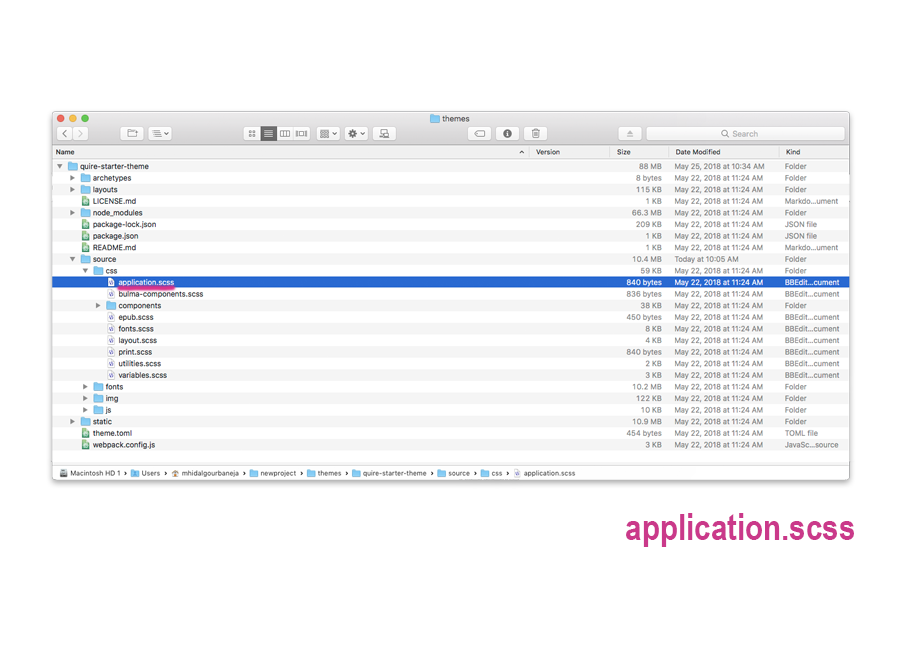
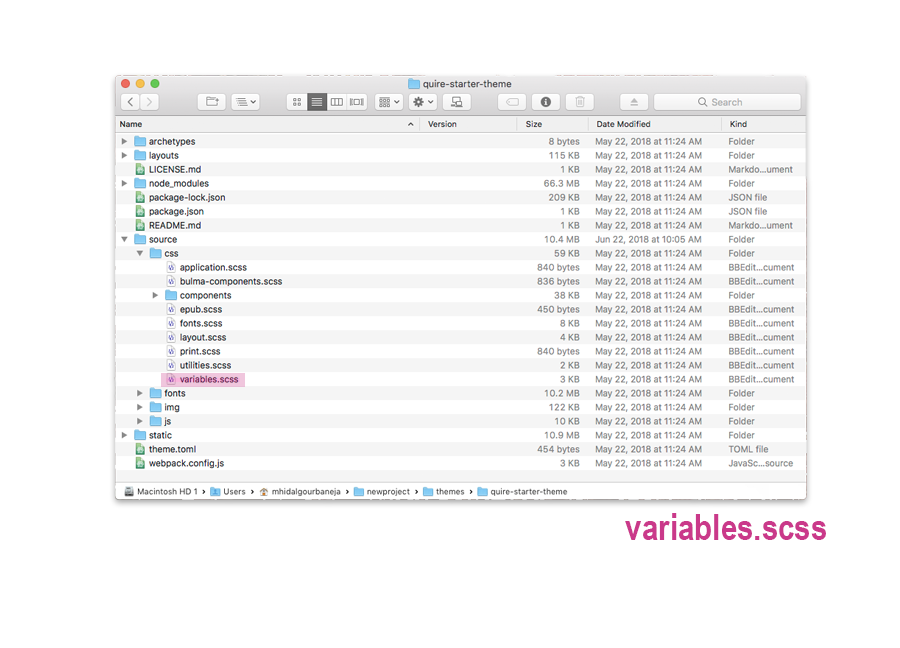
Changed application.scss to variables.scss

Changed region(s): [[0.0311, 0.1235, 0.9644, 0.8333]]

diff --git a/content/guide/styles.md b/content/guide/styles.md
@@ -9,9 +9,9 @@ The look and feel of your Quire publication can be customized at four different 
 
 Every Quire project has a theme[&] inside the `themes` directory. When you first start a new project typing the `quire new` command in your command line interface, the default theme included is `quire-starter-theme`. In it, you can access simple text variables[&] that will let you update text and background colors, some element sizes, fonts, paragraph indents and more.
 
-To find the variables, open the `quire-starter-theme` directory, navigate to the `source` sub-directory and then `css`, and open the file called `application.scss`.
+To find the variables, open the `quire-starter-theme` directory, navigate to the `source` sub-directory and then `css`, and open the file called `variables.scss`.
 
-![screenshot of the application.scss file in the quire-starter-theme directory](../images/screenshots/style1.png)
+![screenshot of the variables.scss file in the quire-starter-theme directory](../images/screenshots/style1.png)
 
 The variables[&] are prefixed with a dollar sign and are descriptive of what they control. For instance `$quire-navbar-background-color` is the background color of the navigation bar at the top of every page. To make it red, you could enter:
 
@@ -27,7 +27,7 @@ Colors are expressed a number of different ways, none of which are better or mor
 
 The `quire-starter-theme` uses the Bulma CSS framework, so you can also use any Bulma variables[&].
 
-[Note] You must have the `quire preview` command running in your command line interface to see changes you make to the `application.scss` file. You may also sometimes need to refresh your browser page, or even clear the browser cache to get the style changes to fully load.
+[Note] You must have the `quire preview` command running in your command line interface to see changes you make to the `variables.scss` file. You may also sometimes need to refresh your browser page, or even clear the browser cache to get the style changes to fully load.
 
 ## Adding Custom Styles
 
@@ -87,7 +87,7 @@ In the above example, we are selecting the element with a class[&] of `"title"` 
 
 ## Overriding Theme Templates
 
-CSS[&] changes like those mentioned above are best for re-styling existing elements. If though you’d like to make a more structural change, say, to rearrange elements on the page, or add new elements altogether, you’ll need to alter the template[&] files that come in the theme[&]. That said, other than changing the variables[&] in `application.scss` file, as described above, it’s usually best not to make other changes directly in the theme itself. By not doing so, it’s much easier to update your theme or switch out other themes later, not to mention easier to undo changes you’ve made.
+CSS[&] changes like those mentioned above are best for re-styling existing elements. If though you’d like to make a more structural change, say, to rearrange elements on the page, or add new elements altogether, you’ll need to alter the template[&] files that come in the theme[&]. That said, other than changing the variables[&] in `variables.scss` file, as described above, it’s usually best not to make other changes directly in the theme itself. By not doing so, it’s much easier to update your theme or switch out other themes later, not to mention easier to undo changes you’ve made.
 
 For modest changes to the theme templates[&], we recommend creating new override files. Much like the `custom.css` file can be used to override styles in the project theme, you can also have files to override templates. There are none in the default starting project, so you’ll need to start be creating a new `layouts` directory folder in the main directory of your project. Any files you put in this `layouts` directory will override the corresponding files in the `layouts` directory of your theme. This includes page templates, partial templates and shortcodes.
 
